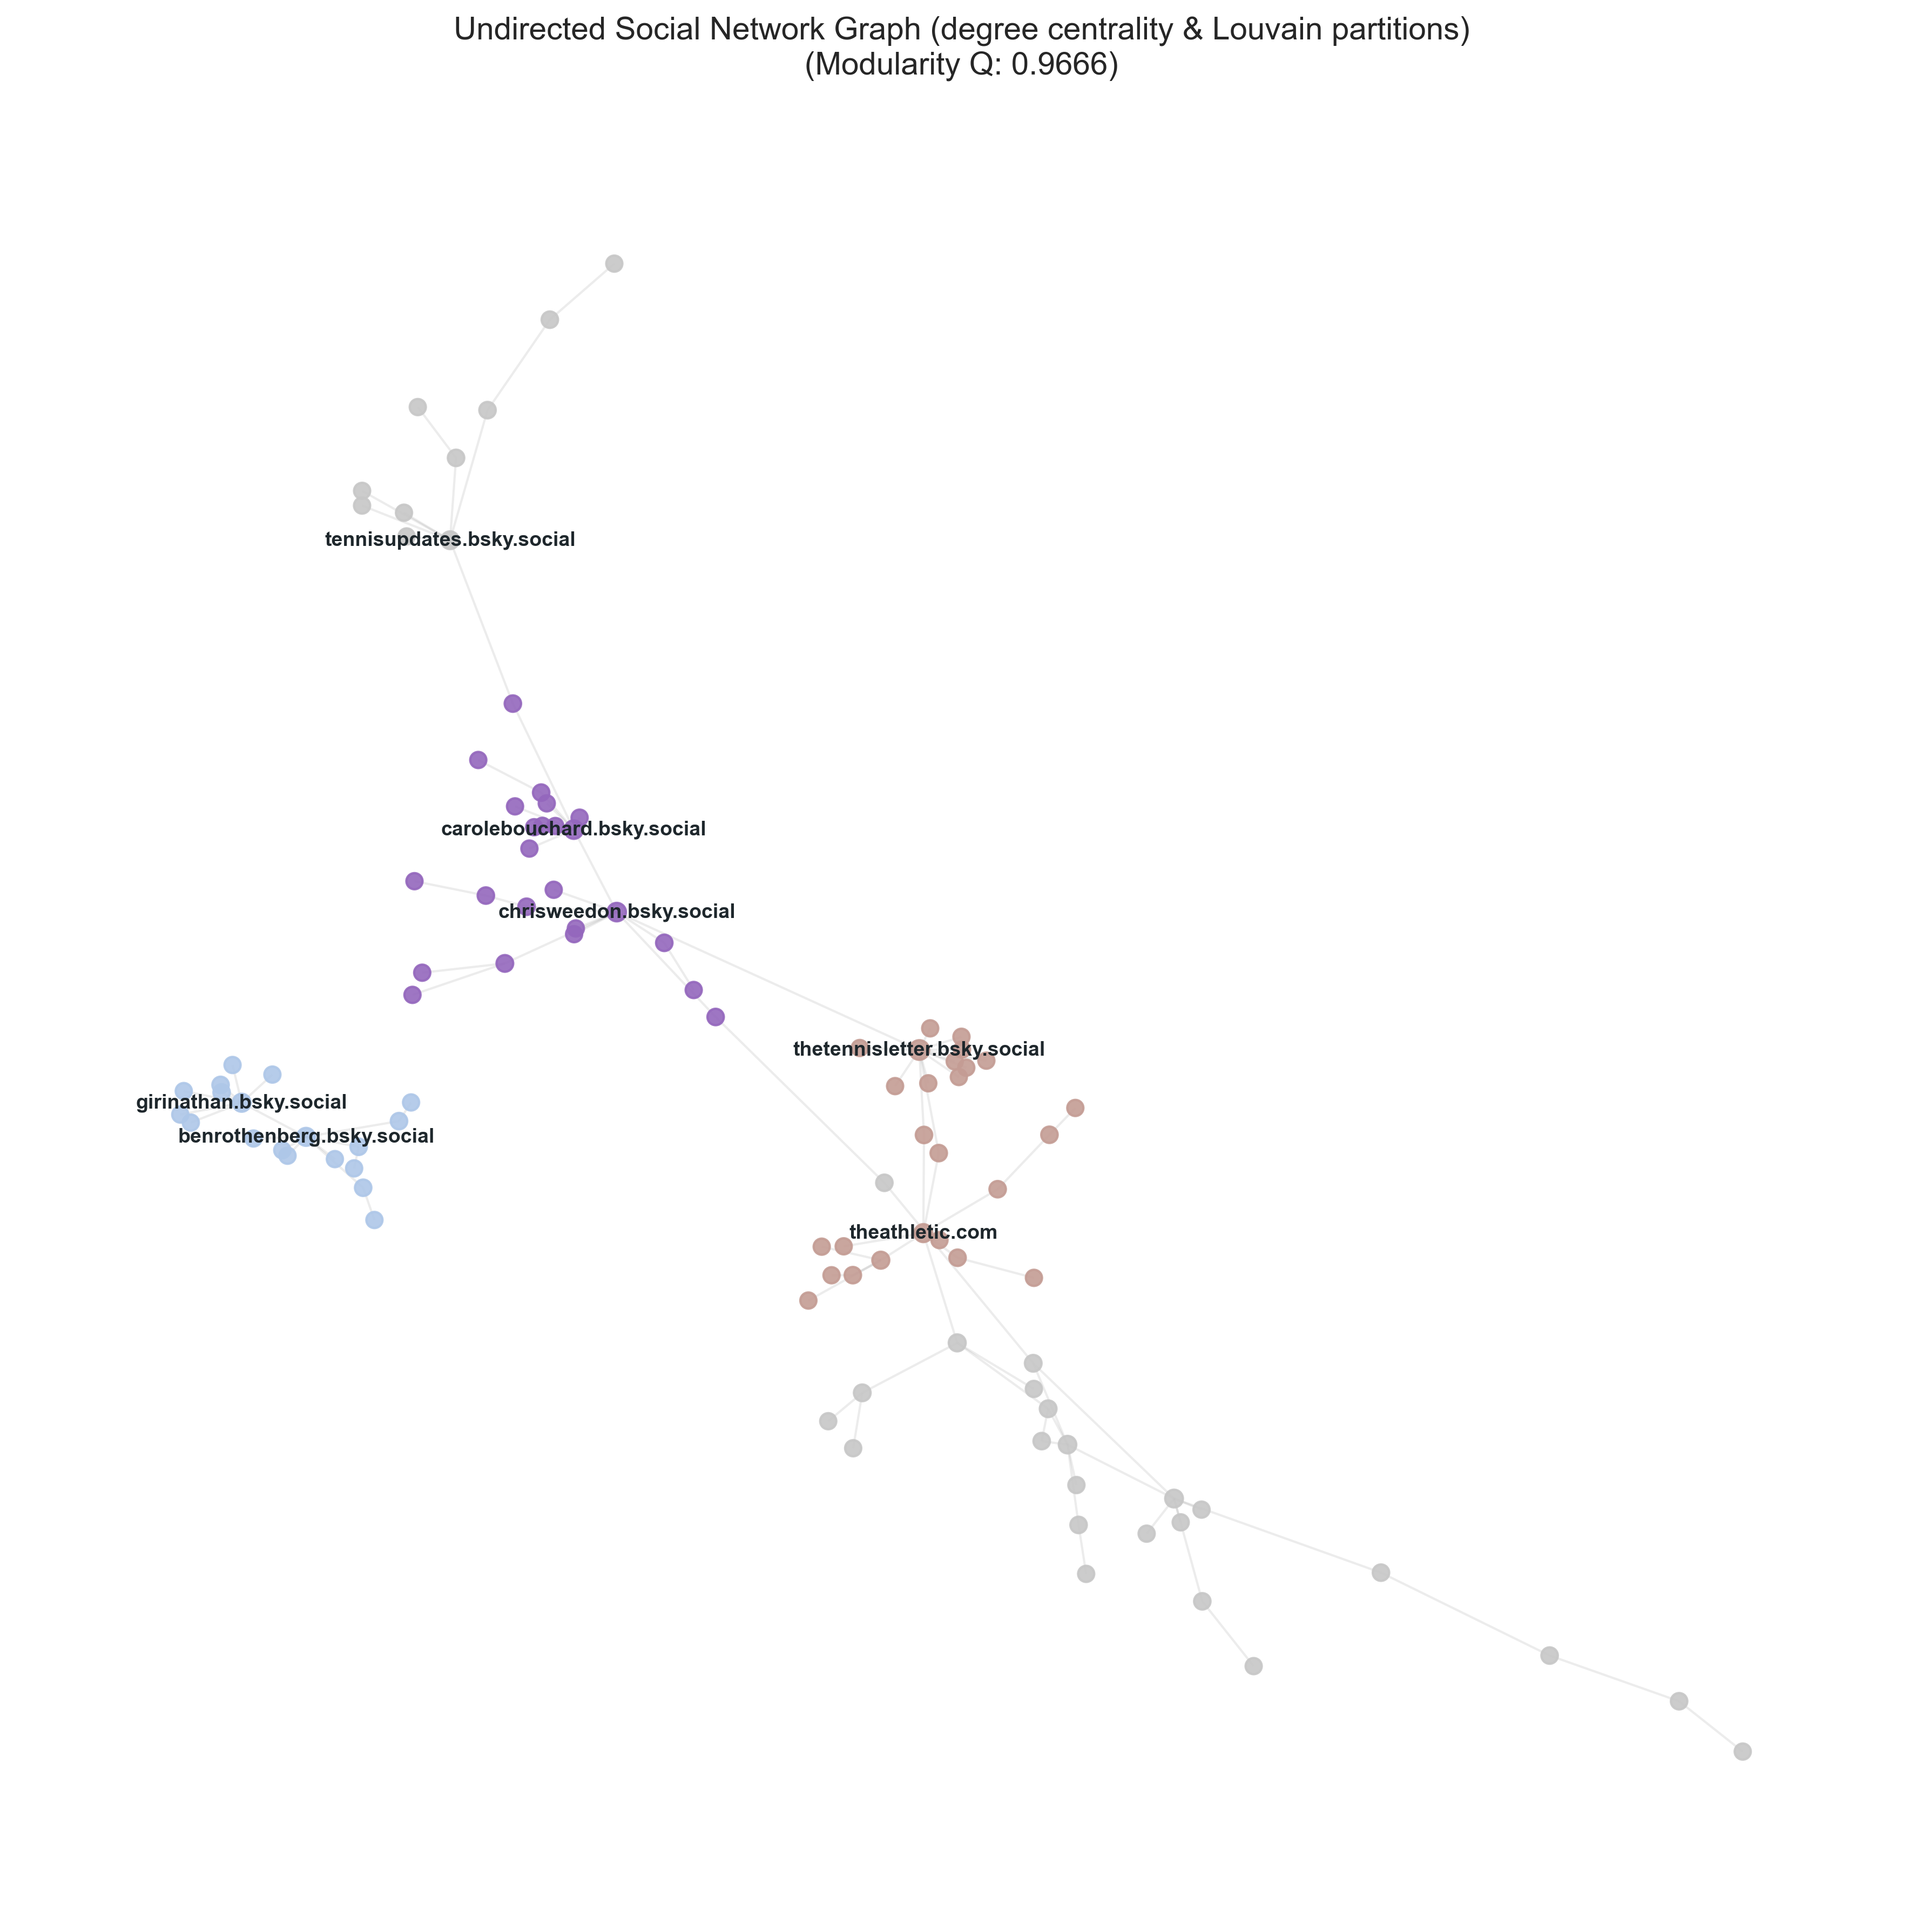
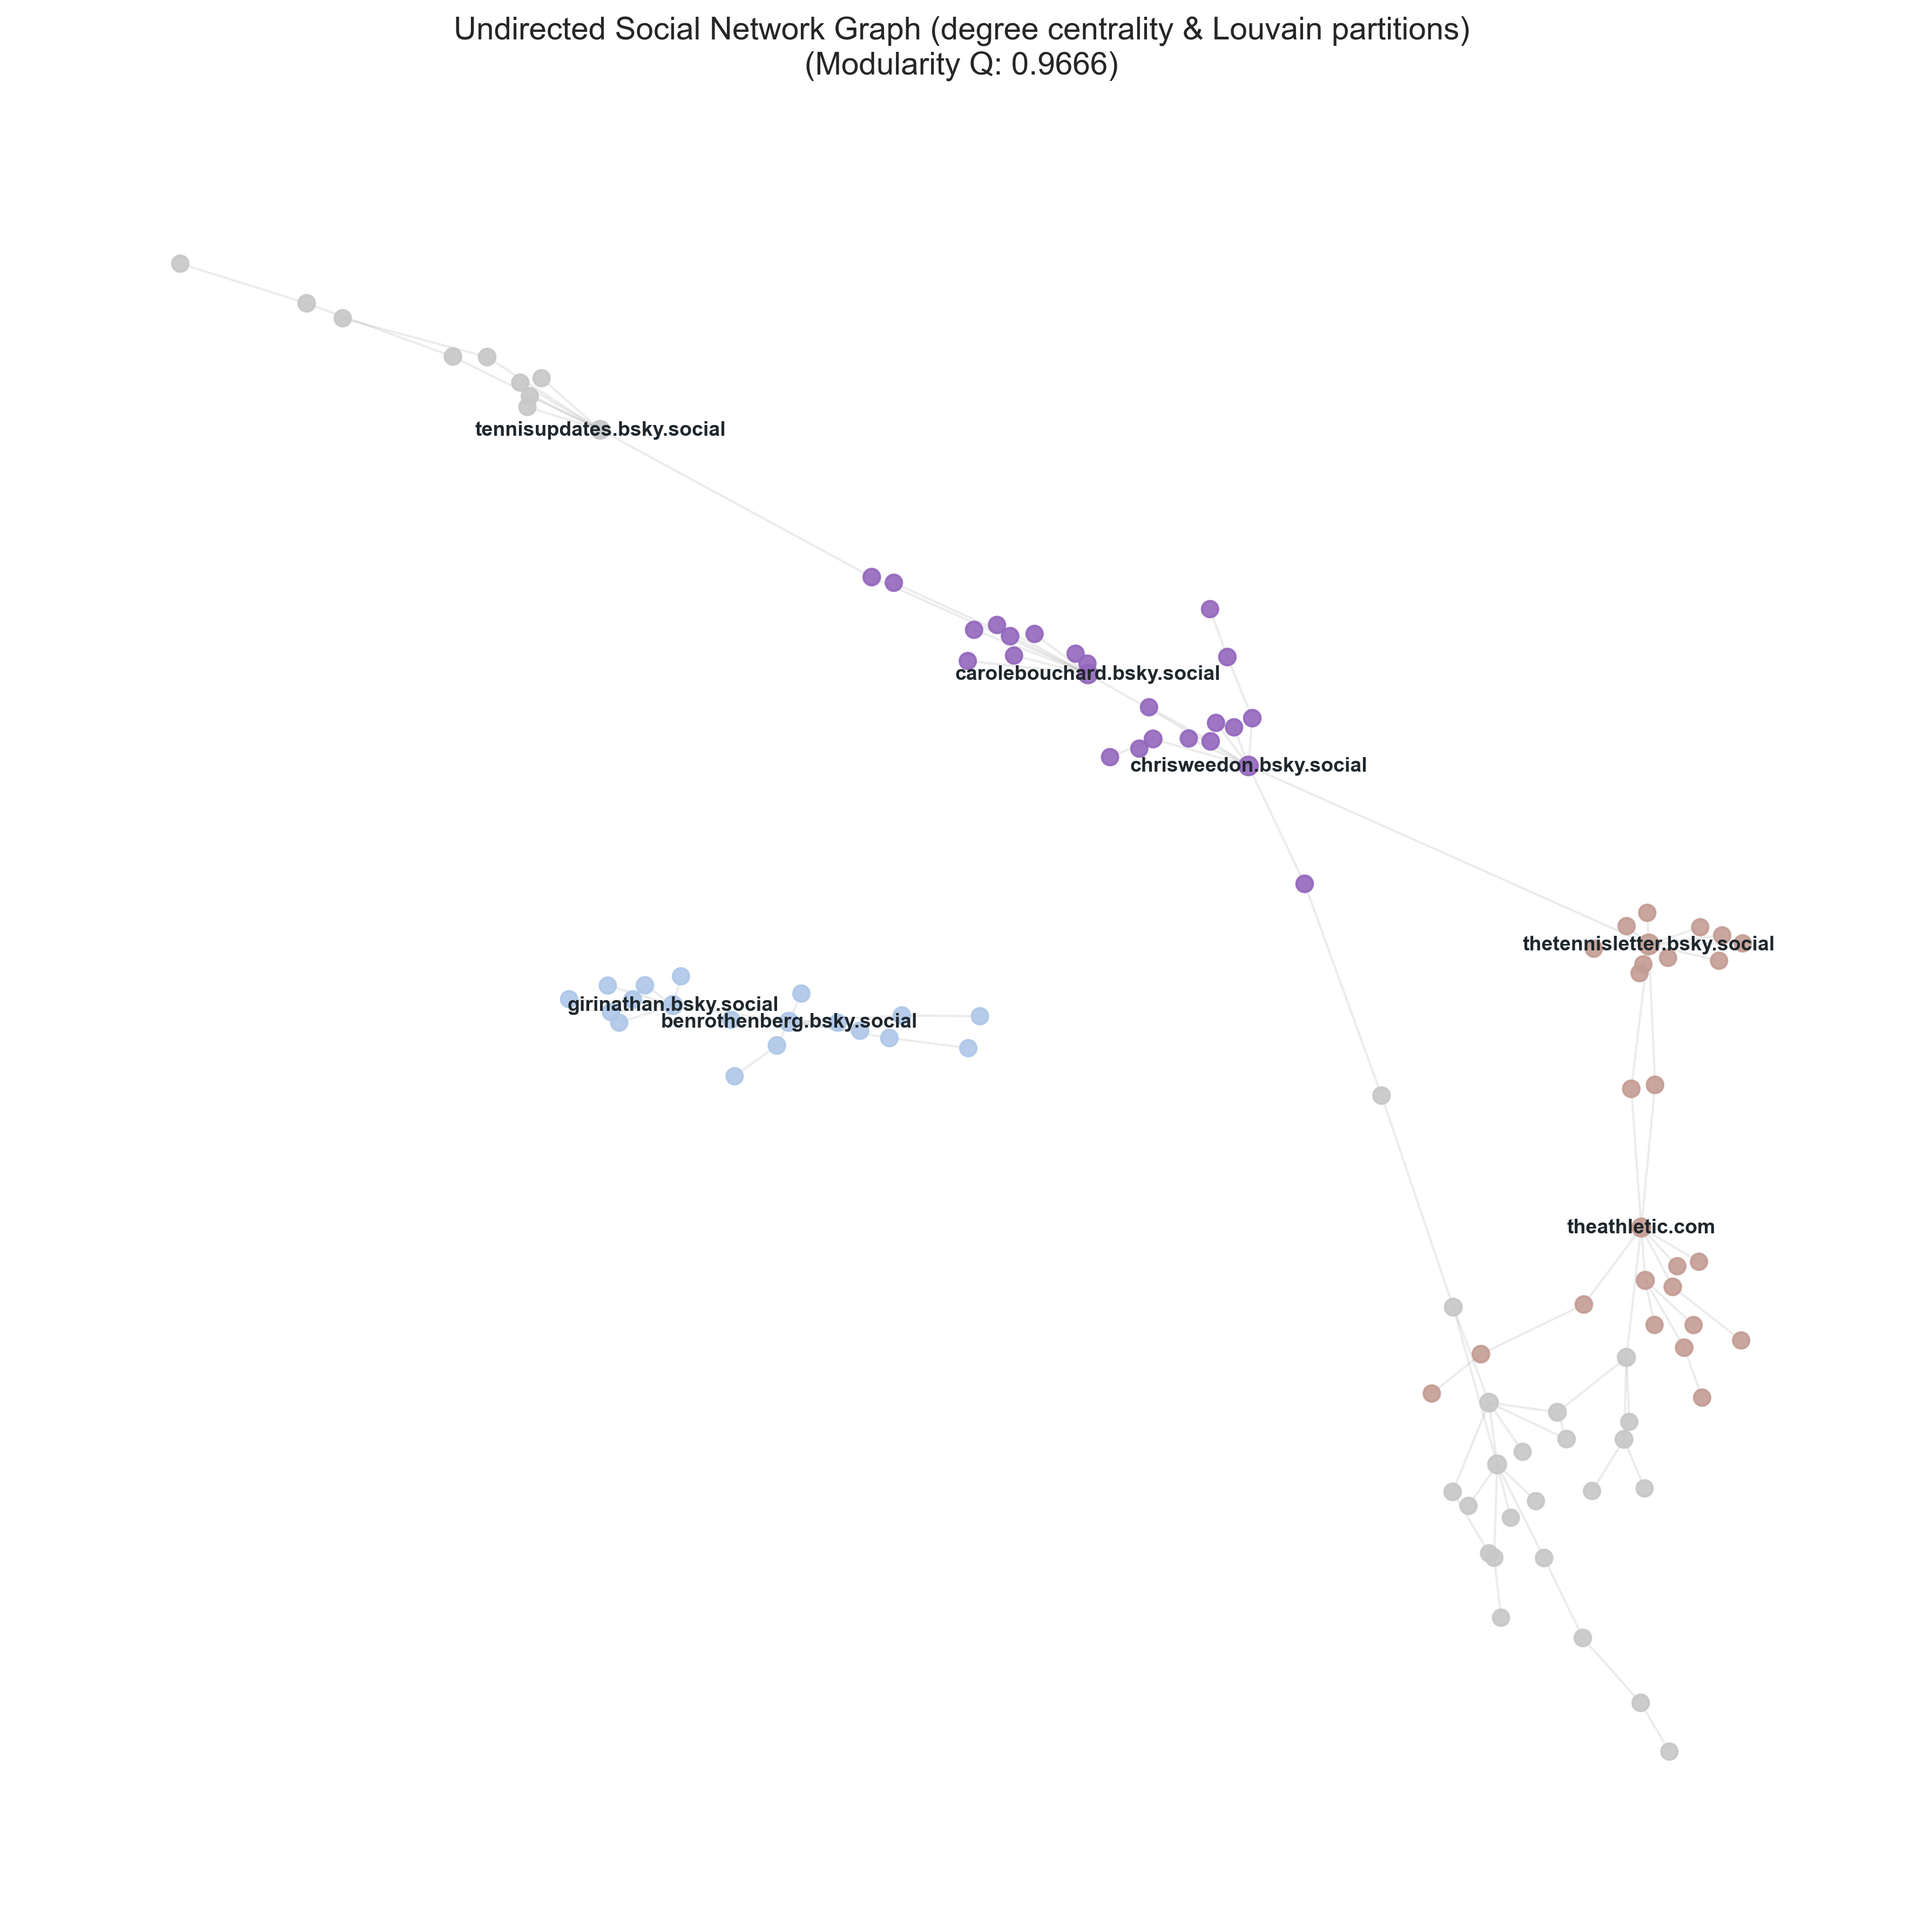
style: increase spring layout spacing to k=0.3 and iterations=60

diff --git a/src/social_network_analysis.py b/src/social_network_analysis.py
@@ -360,10 +360,10 @@ def plot_filtered_network_graph(
     Gd_plot.remove_nodes_from([n for n in list(Gd_plot.nodes()) if node_to_infomap.get(n) not in top_infomap])
 
     nodes_with_edges = [n for n, d in Gu.degree() if d > 0]
-    pos = nx.spring_layout(Gu.subgraph(nodes_with_edges), k=0.15, iterations=40, seed=42)
+    pos = nx.spring_layout(Gu.subgraph(nodes_with_edges), k=0.3, iterations=60, seed=42)
 
     nodes_with_edges_dir = [n for n, d in Gd.degree() if d > 0]
-    pos_dir = nx.spring_layout(Gd.subgraph(nodes_with_edges_dir), k=0.15, iterations=40, seed=42)
+    pos_dir = nx.spring_layout(Gd.subgraph(nodes_with_edges_dir), k=0.3, iterations=60, seed=42)
 
     plot_network_graphs(
         Gu_plot, Gd_plot, df_cent, comm_data, centralities,
@@ -401,7 +401,8 @@ def plot_network_graphs(
 
     subG = Gu.subgraph(nodes_in_relations)
     if pos is None:
-        pos = nx.spring_layout(subG, k=0.15, iterations=40, seed=42)
+        pos = nx.spring_layout(subG, k=0.3, iterations=60, seed=42)
+        
     top_10_nodes = df_cent.sort_values(by="degree_centrality_undirected", ascending=False).head(10)['user'].tolist()
     labels_to_draw = {node: node for node in subG.nodes() if node in top_10_nodes}
 
@@ -425,7 +426,7 @@ def plot_network_graphs(
     if nodes_in_relations_dir:
         subG_dir = Gd.subgraph(nodes_in_relations_dir)
         if pos_dir is None:
-            pos_dir = nx.spring_layout(subG_dir, k=0.15, iterations=40, seed=42)
+            pos_dir = nx.spring_layout(subG_dir, k=0.3, iterations=60, seed=42)
 
         node_to_infomap = comm_data.get("node_to_infomap", {})
         infomap_color_map = get_community_color_map(node_to_infomap, cmap_name=cmap_directed)
